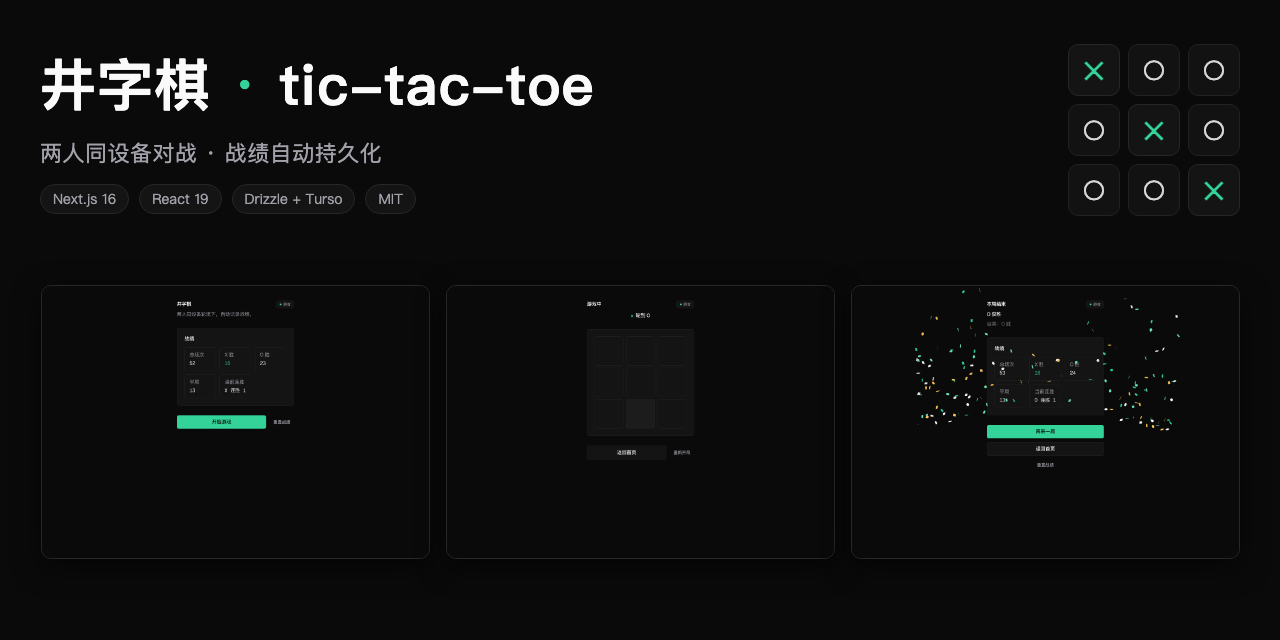
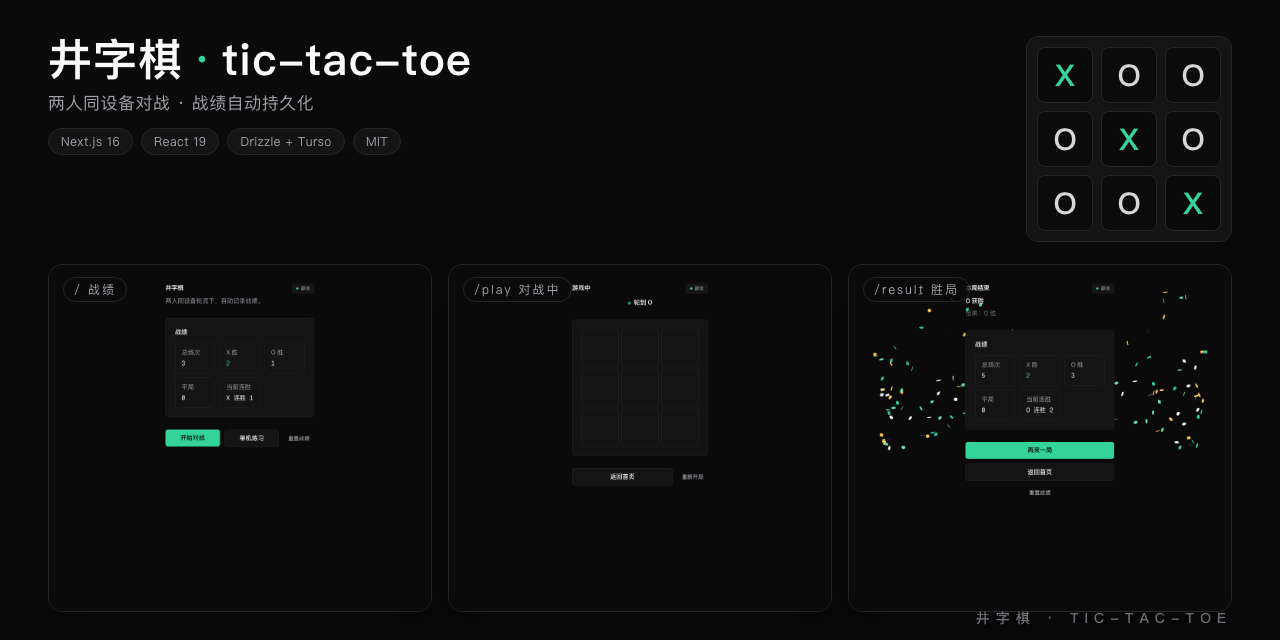
docs(assets): 重制 4 张 social-card 与当前 UI 对齐
WHAT:
- 重制 docs/social-card-{home,play,result}.png 与 docs/social-card.png
  拼版（1280×640 PNG），通过 /tmp/tictactoe-card-render-20260915/
  render.mjs Playwright 单次脚本（沿用 tests/qa/lib/browser.mjs
  启动语义），HTML 卡面 + setContent + page.screenshot。
- 单卡构成：标题「井字棋 · {variant}」+ tagline + badge row
  （Next.js 16 / React 19 / Drizzle + Turso / MIT）+ 路由真实截图
  docs/screenshots/{home,board,result}.png 嵌入预览卡（圆角 +
  细边 #27272A，object-fit: cover + object-position: center 20%
  裁出中央内容区）+ 底部品牌字样「井字棋 · TIC-TAC-TOE」
  （与 social-card-brandmark 一致）。
- 拼版与旧图（ba19ce5）同构：顶部 title + 右上 X 占优 mini board，
  底部三张 framed 缩略（/战绩 / /play 对战中 / /result 胜局），
  右下品牌字样。GitHub Social Preview 上传位点沿用（c16e9e8
  Directive 已存档）。
- cp -p 镜像 4 张到 public/（与 docs/ 字节一致，cmp -s 验证）。
- brandmark（512×512）未动。
- 设计令牌悉取 app/globals.css：bg #0A0A0A · elevated #141414 ·
  border-subtle #27272A · text-primary #FAFAFA · text-secondary
  #A1A1AA · accent #34D399 · player-x #34D399 · player-o #FAFAFA。
- 同批入仓计划档 .omo/plans/ulw-review-ablation-remaining.md
  （B3 验收条目落点；此前 untracked）。

WHY: UI 已改版（双 CTA 首页、/solo 单机模式、VT 过渡——2b79d14
     / 0bab68e / f45ddbf / c65d876 / 4f5ec71 / 02c654d），但
     docs/social-card-{home,play,result}.png 仍是旧 UI（c16e9e8
     渲的旧布局，无截图嵌入）；社交分享卡与 GitHub Social Preview
     （docs/social-card.png 拼版）显示的产品状态与运行实例脱节。
     plan .omo/plans/ulw-review-ablation-remaining.md §B3 验收卡点
     明列此事项。

HOW:
- 渲染：/tmp/tictactoe-card-render-20260915/render.mjs 单次脚本
  （chromium headless，viewport 1280×640，deviceScaleFactor 1，
[…]

diff --git a/.omo/plans/ulw-review-ablation-remaining.md b/.omo/plans/ulw-review-ablation-remaining.md
@@ -1,0 +1,48 @@
+# ulw · 全量 review + 消融实验 + 遗留待办（push 冻结）
+
+- **日期**：2026-09-15
+- **状态**：APPROVED（主公谕：$omo:review-work；全部 codex 执行；并行按上下文正交划分）
+- **对象**：main 领先 origin/main 之 11 commit（bb171bf…f8fd69e，见 git log 51f164c..HEAD）
+- **铁律**：push 冻结（合格亦须主公亲自 push）；合并必经 PR（GitHub main-gate 本制）；codex 编辑一律 shell（sed/python/heredoc/git apply），**禁 apply_patch**（通道已知缺陷）
+
+## 1. 验收标准（机器可判）
+
+| # | 项 | 判定 |
+|---|-----|------|
+| B1 | 四路 review 各出 findings 榜（严重度+文件:行号+修法），零 False-Positive 不追究、零漏报由消融兜底 | reports/review/RA-RD.md 存在且含判定 |
+| B2 | 消融三轮全数落证：AB1 VT 消融回退全绿 / AB2 solo 零写探针对抗有效（人为注写须红）/ AB3 双闸各自必要（去 guard 注 stamp 须红，复 guard 绿） | reports/ablation/AB{1,2,3}.md 各含命令+尾行+判定 |
+| B3 | social-card 四变体重制（1200×630 或对齐原图尺寸），app/layout.test.ts 仍绿，public/ 镜像同步 | `sips -g pixelWidth` + 测试尾行 |
+| B4 | stats-race 双 launchQA 旧疵清除，14/14 仍绿 | 探针尾行 |
+| B5 | review findings 之「修」级缺陷全部修复并复验（fix commit + 门禁绿） | git log + 门禁尾行 |
+| B6 | push 计数不变：全程 `git push` 零调用 | `git status -sb` ahead 数只增于本地 commit |
+
+## 2. 正交划分（文件面互斥）
+
+**波 1 · 六路并行（全部 fresh codex，herdr tab）**
+
+| lane | 类型 | 范围（文件面） | 产出 |
+|------|------|--------------|------|
+| RA | review 只读 | lib/store.ts、lib/solo-stats.ts（commit 4f5ec71）：SSR 守卫/隐私模式容错/shape 校验旁路/internalStats 双模式串台/ranked 零变化证明 | reports/review/RA.md |
+| RB | review 只读 | bb171bf+c65d876+2b79d14 组件面：testid 契约逐项、a11y（Board focus 迁移）、GameShell server-compatible、SoloStatsPanel SSR 安全、测试缺口 | reports/review/RB.md |
+| RC | review 只读+有限实测 | 0bab68e+f45ddbf：guide 逐条对照；降级矩阵（page.emulateMedia reducedMotion 实测；旧引擎以 CSS 逻辑审）；扫其余探针还有无 hydration-check 式「同步断言 effects」受害点 | reports/review/RC.md |
+| RD | review 只读 | a8a7063/7c29d62（探针测真契约否：DELETE 匹配精确性、轮询超时路径）+ 02c654d（README 双语一致、截图 vs 真实 UI）+ d8329a4/f8fd69e | reports/review/RD.md |
+| W-art | 写：docs+public | social-card 四变体重制（令牌直绘 HTML + Playwright 截图 + cp -p 镜 public；brandmark 不动） | docs/ + public/ 新图 + commit |
+| W-abl | 写：独立 worktree + reports | 三轮消融 AB1/AB2/AB3（../ttt-ablation worktree，每轮 patch→build→探针→还原），证据落 reports/ablation/ | AB 报告 + commit |
+
+**波 2 · 修复（按 findings 文件面分组派 fresh codex；与波 1 产出互斥则可并行）**
+**波 3 · 终验（fresh codex 对抗复核 + 全门禁 + 探针全量）**
+
+## 3. 编排
+
+- 全程 herdr tab；等待遵守 docs/herdr-session-hygiene.md v2.1：估 T÷5 分片、候 done 不候 idle。
+- review/消融 lane 的门禁：不涉产品码不跑 build；W-art/W-abl 各自跑所涉门禁。
+- 消融 worktree 用毕即 `git worktree remove`；server 用毕必杀。
+- findings 分级：**修**（本轮必修）/ **账**（记档下轮）/ **疵**（不碍判定注记）。
+
+## 4. 遗留待办映射
+
+| 原待办 | 本计划落点 |
+|--------|-----------|
+| social-card 重绘 | W-art |
+| stats-race 双 launchQA | RD 提出修法 → 波 2 修复 |
+| push | 冻结；B6 守护；主公亲手 + PR 后方可合并 |
